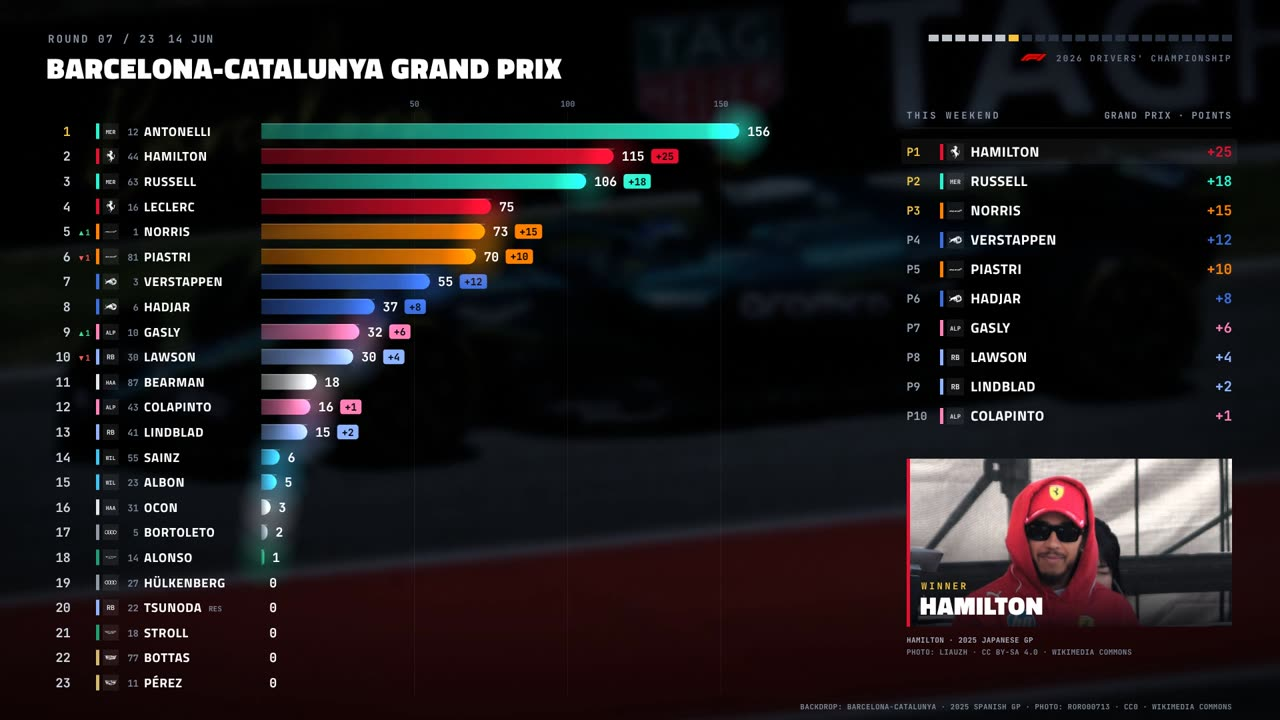
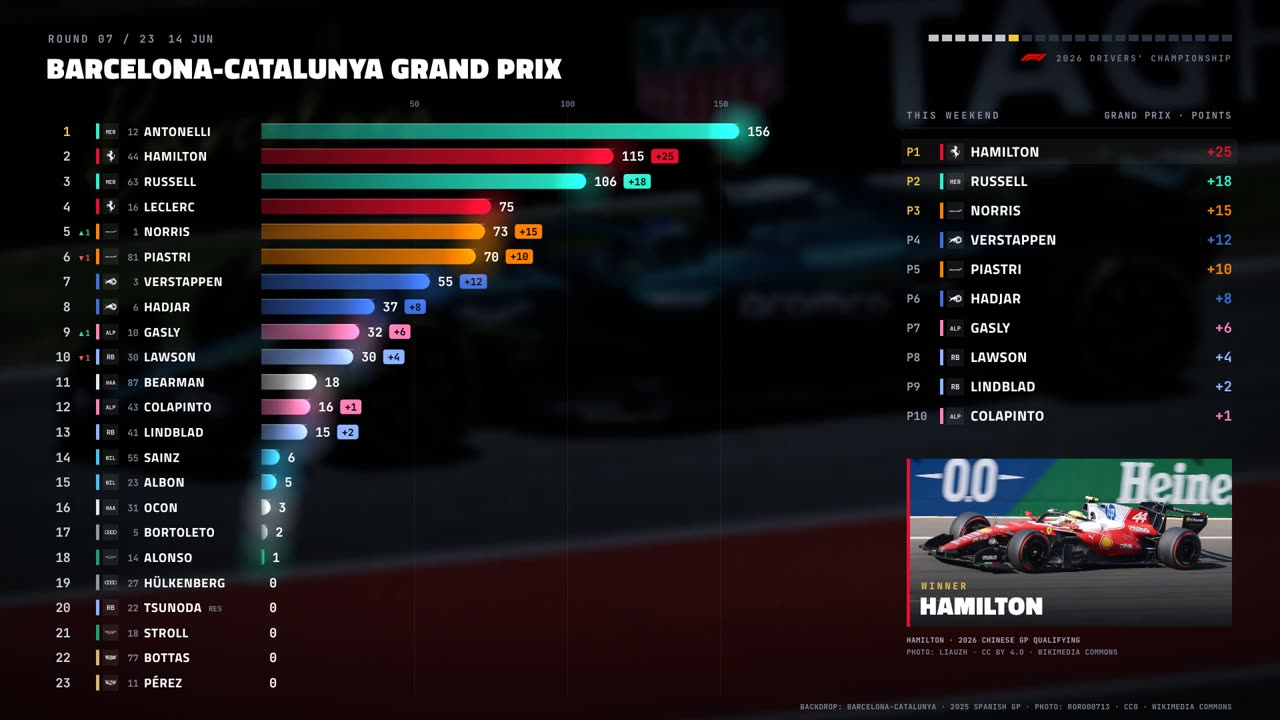
Regenerate README stills for revision 4: cold open, grid, P2 chart, finish
Claude-Session: https://claude.ai/code/session_0182PL7wjuE4JgJwLJXXX1UM

Changed region(s): [[0.6875, 0.6111, 0.9688, 0.8556], [0.7812, 0.8861, 0.875, 0.9167]]

diff --git a/README.md b/README.md
@@ -18,8 +18,9 @@ After 18 rounds, Kimi Antonelli has 365 points and the title all but won. Behind
 
 | | |
 |---|---|
-| ![Round 1, Australia](docs/stills/02-australia.jpg) | ![Summer break](docs/stills/05-summer-break.jpg) |
-| ![The fight for P2](docs/stills/10-russell.jpg) | ![P2 — ?](docs/stills/13-p2.jpg) |
+| ![Cold open: the start-light gantry](docs/stills/00-cold-open.jpg) | ![The grid, just before lights out](docs/stills/01-grid.jpg) |
+| ![Round 1, Australia, with the podium photo](docs/stills/02-australia.jpg) | ![Summer break](docs/stills/05-summer-break.jpg) |
+| ![The fight for P2, as cumulative points](docs/stills/10-p2-chart.jpg) | ![The finish: 9 points between P2 and P5](docs/stills/11-the-finish.jpg) |
 
 ## The data, verified
 
